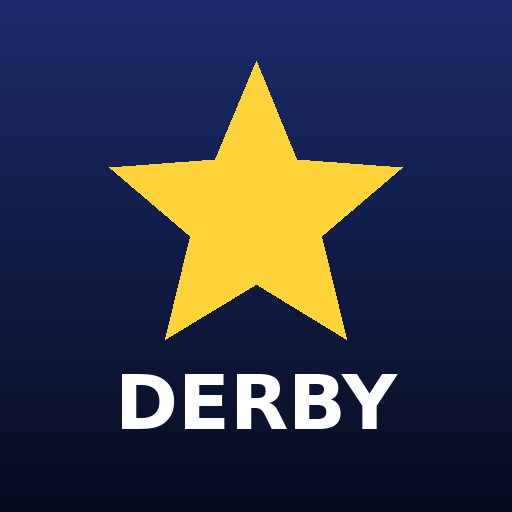
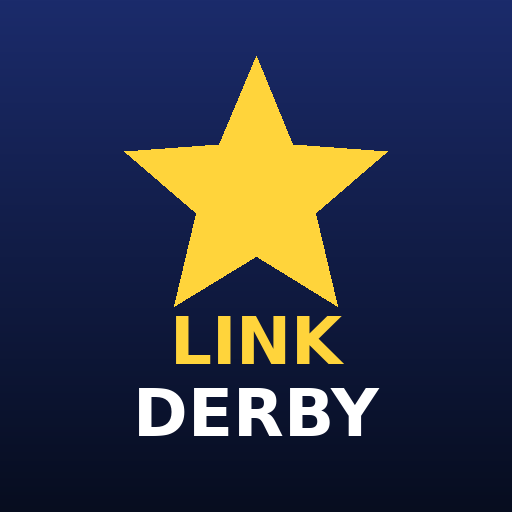
게임 이름 변경: STAR DERBY → LINK DERBY 링크 더비 (로고·아이콘·광고판·교환권)
Claude-Session: https://claude.ai/code/session_01QzXU9DkvGurNNrRjCtxBqB

diff --git a/derby/index.html b/derby/index.html
@@ -7,8 +7,8 @@
 <meta name="apple-mobile-web-app-capable" content="yes">
 <meta name="mobile-web-app-capable" content="yes">
 <meta name="apple-mobile-web-app-status-bar-style" content="black-translucent">
-<meta name="apple-mobile-web-app-title" content="스타더비">
-<title>STAR DERBY 스타더비 - 아케이드 경마</title>
+<meta name="apple-mobile-web-app-title" content="링크더비">
+<title>LINK DERBY 링크 더비 - 아케이드 경마</title>
 <link rel="manifest" href="manifest.webmanifest">
 <link rel="apple-touch-icon" href="apple-touch-icon.png">
 <link rel="icon" type="image/png" href="icon-192.png">
@@ -42,7 +42,7 @@
 
 <script>
 /* =========================================================
-   STAR DERBY — 엔진 (시뮬레이션 / 렌더링 / 사운드)
+   LINK DERBY — 엔진 (시뮬레이션 / 렌더링 / 사운드)
    ========================================================= */
 /*SIM_START*/
 const FRAME = {1:{bg:'#ffffff',fg:'#111111'},2:{bg:'#141414',fg:'#ffffff'},3:{bg:'#e03131',fg:'#ffffff'},
@@ -384,7 +384,7 @@ const Voice={ on:true, ok:typeof window!=='undefined'&&'speechSynthesis' in wind
     this.v = ko.find(v=>MALE_RE.test(v.name)) || ko[0] || null;
     this.male = !!(this.v && MALE_RE.test(this.v.name));
   }catch(e){} },
-  setVoice(name){ try{ localStorage.setItem('sd_voice',name); }catch(e){} this.pickVoice(); this.say('안녕하세요, 스타더비 중계를 맡은 아나운서입니다!',true); },
+  setVoice(name){ try{ localStorage.setItem('sd_voice',name); }catch(e){} this.pickVoice(); this.say('안녕하세요, 링크 더비 중계를 맡은 아나운서입니다!',true); },
   unlock(){ if(!this.ok) return; try{ this.pickVoice(); const u=new SpeechSynthesisUtterance(' '); u.volume=0; u.lang='ko-KR'; speechSynthesis.speak(u); }catch(e){} },
   // 자체 대기열 + 감시 타이머: iOS/크롬에서 onend가 안 오거나 cancel 직후 speak가 씹혀서 소리가 끊기는 문제 방지
   q:[], busy:false, cur:null, wd:null,
@@ -625,7 +625,7 @@ function drawHorse(ctx,h,x,y,s,phase,amp,o){
   ctx.strokeStyle=fr.bg==='#ffffff'?'#adb5bd':'rgba(255,255,255,0.75)'; ctx.lineWidth=1.2; rr(ctx,-16,-85,27,21,2); ctx.stroke();
   ctx.fillStyle=fr.fg; ctx.font='600 15px "Noto Sans KR",sans-serif'; ctx.textAlign='center'; ctx.textBaseline='middle';
   ctx.fillText(String(h.no),-2.5,-76.5);
-  ctx.font='600 4px sans-serif'; ctx.fillText('STAR DERBY',-2.5,-67.5);
+  ctx.font='600 4px sans-serif'; ctx.fillText('LINK DERBY',-2.5,-67.5);
   const sd=ctx.createLinearGradient(0,-92,0,-84); sd.addColorStop(0,'#5a3b24'); sd.addColorStop(1,'#24160d');
   ctx.fillStyle=sd; ctx.beginPath(); ctx.moveTo(-15,-86); ctx.quadraticCurveTo(-14,-92,-6,-90); ctx.lineTo(6,-90); ctx.quadraticCurveTo(13,-91,13,-86); ctx.closePath(); ctx.fill();
   // 등자끈
@@ -744,7 +744,7 @@ const FIRE_GLOW=(()=>{ try{ const c=document.createElement('canvas'); c.width=20
 const sZ = z => 0.62+0.38*z;
 const yZ = z => Y_FAR+(Y_NEAR-Y_FAR)*z;
 const ADS=[['링크클린','LINKCLEAN 제주 청소 전문','#0ca678','#fff'],['CREAMUS','크리머스 광안리 케이크','#f06595','#fff'],
-           ['하나토탈클린','HANA TOTAL CLEAN','#1c7ed6','#fff'],['STAR DERBY','스타더비 경마','#ffd43b','#111'],['JEJU','제주 경마공원','#e8590c','#fff']];
+           ['하나토탈클린','HANA TOTAL CLEAN','#1c7ed6','#fff'],['LINK DERBY','링크 더비 경마','#ffd43b','#111'],['JEJU','제주 경마공원','#e8590c','#fff']];
 
 class RaceEngine{
   constructor(canvas,setup,cb){
@@ -1316,7 +1316,7 @@ class RaceEngine{
     ctx.strokeStyle='#2b8a3e'; ctx.lineWidth=5; ctx.beginPath(); ctx.moveTo(A[0],A[1]); ctx.lineTo(B[0],B[1]); ctx.moveTo(C[0],C[1]); ctx.lineTo(Dd[0],Dd[1]); ctx.moveTo(A[0],A[1]); ctx.lineTo(Dd[0],Dd[1]); ctx.stroke();
     const E=this.P(0.3,zB,2.3), F=this.P(0.3,zB,2.9), G=this.P(0.3,zA,2.9);
     ctx.fillStyle='#2b8a3e'; ctx.beginPath(); ctx.moveTo(B[0],B[1]); ctx.lineTo(E[0],E[1]); ctx.lineTo(F[0],F[1]); ctx.lineTo(G[0],G[1]); ctx.closePath(); ctx.fill();
-    ctx.fillStyle='#fff'; ctx.font='700 16px "Noto Sans KR",sans-serif'; ctx.textAlign='center'; ctx.textBaseline='middle'; ctx.fillText('STAR GATE',(G[0]+F[0])/2,(G[1]+F[1])/2+(E[1]-F[1])*0.0-8);
+    ctx.fillStyle='#fff'; ctx.font='700 16px "Noto Sans KR",sans-serif'; ctx.textAlign='center'; ctx.textBaseline='middle'; ctx.fillText('LINK GATE',(G[0]+F[0])/2,(G[1]+F[1])/2+(E[1]-F[1])*0.0-8);
   }
   drawForeground(ctx){
     const ppm=this.ppm, cam=this.camX, z=1.12;
@@ -2072,7 +2072,7 @@ const EVENT_TIERS=[{cr:30000,cups:1,label:'스타벅스 원하는 커피 1잔'},
 function hashStr(str){ let h1=0xdeadbeef^str.length, h2=0x41c6ce57^str.length; for(let i=0;i<str.length;i++){ const c=str.charCodeAt(i); h1=Math.imul(h1^c,2654435761); h2=Math.imul(h2^c,1597334677); }
   h1=Math.imul(h1^(h1>>>16),2246822507)^Math.imul(h2^(h2>>>13),3266489909); h2=Math.imul(h2^(h2>>>16),2246822507)^Math.imul(h1^(h1>>>13),3266489909);
   return (4294967296*(2097151&h2)+(h1>>>0)).toString(36).toUpperCase().padStart(10,'0'); }
-function claimCode(nick,cups,ts){ const hs=hashStr(`${nick}|${cups}|${ts}|STARDERBY-LINKCLEAN`); return `SD-${hs.slice(0,4)}-${hs.slice(4,8)}-${cups}`; }
+function claimCode(nick,cups,ts){ const hs=hashStr(`${nick}|${cups}|${ts}|STARDERBY-LINKCLEAN`); return `LD-${hs.slice(0,4)}-${hs.slice(4,8)}-${cups}`; }
 function EventModal({credit,onClose,onClaim,claims}){
   const [nick,setNick]=useState(()=>ls.get('sd_nick',''));
   const [confirm,setConfirm]=useState(null);
@@ -2132,7 +2132,7 @@ function Certificate({c,onClose}){
     <div className="fixed inset-0 z-[60] bg-[#06120d] flex flex-col items-center justify-center p-5" onClick={onClose}>
       <div className="w-full max-w-sm rounded-3xl overflow-hidden shadow-2xl pop" style={{background:'linear-gradient(160deg,#00704A,#004d33)'}} onClick={e=>e.stopPropagation()}>
         <div className="px-5 pt-5 text-white">
-          <div className="text-[12px] tracking-widest opacity-80">STAR DERBY EVENT</div>
+          <div className="text-[12px] tracking-widest opacity-80">LINK DERBY EVENT</div>
           <div className="fx-title text-[28px] mt-1">커피 교환권</div>
           <div className="text-5xl mt-3">{'☕'.repeat(c.cups)}</div>
           <div className="mt-2 text-lg font-black">스타벅스 원하는 커피 {c.cups}잔</div>
@@ -2267,7 +2267,7 @@ function App(){
     <div className="min-h-screen" style={{background:'radial-gradient(1200px 600px at 50% -200px,#1b2f6e 0%,#070d1f 60%)'}}>
       <header className="sticky top-0 z-20 backdrop-blur bg-[#070d1f]/80 border-b border-white/5">
         <div className="max-w-md mx-auto flex items-center gap-2 px-3 py-2 h-[52px]">
-          <div className="fx-title text-[19px] leading-none whitespace-nowrap"><span className="gold">★ STAR</span> <span className="text-white">DERBY</span></div>
+          <div className="fx-title text-[19px] leading-none whitespace-nowrap"><span className="gold">★ LINK</span> <span className="text-white">DERBY</span></div>
           
           <div className="ml-auto flex items-center gap-2">
             <button onClick={()=>{Sound.init(); setMuted(m=>!m);}} className="w-8 h-8 shrink-0 rounded-full bg-white/10 text-base">{muted?'🔇':'🔊'}</button>

diff --git a/derby/sw.js b/derby/sw.js
@@ -1,4 +1,4 @@
-const CACHE = "star-derby-v11";
+const CACHE = "link-derby-v12";
 const CORE = ["./", "./index.html", "./manifest.webmanifest", "./icon-192.png", "./icon-512.png"];
 self.addEventListener("install", (e) => {
   e.waitUntil(caches.open(CACHE).then((c) => c.addAll(CORE)).then(() => self.skipWaiting()));
